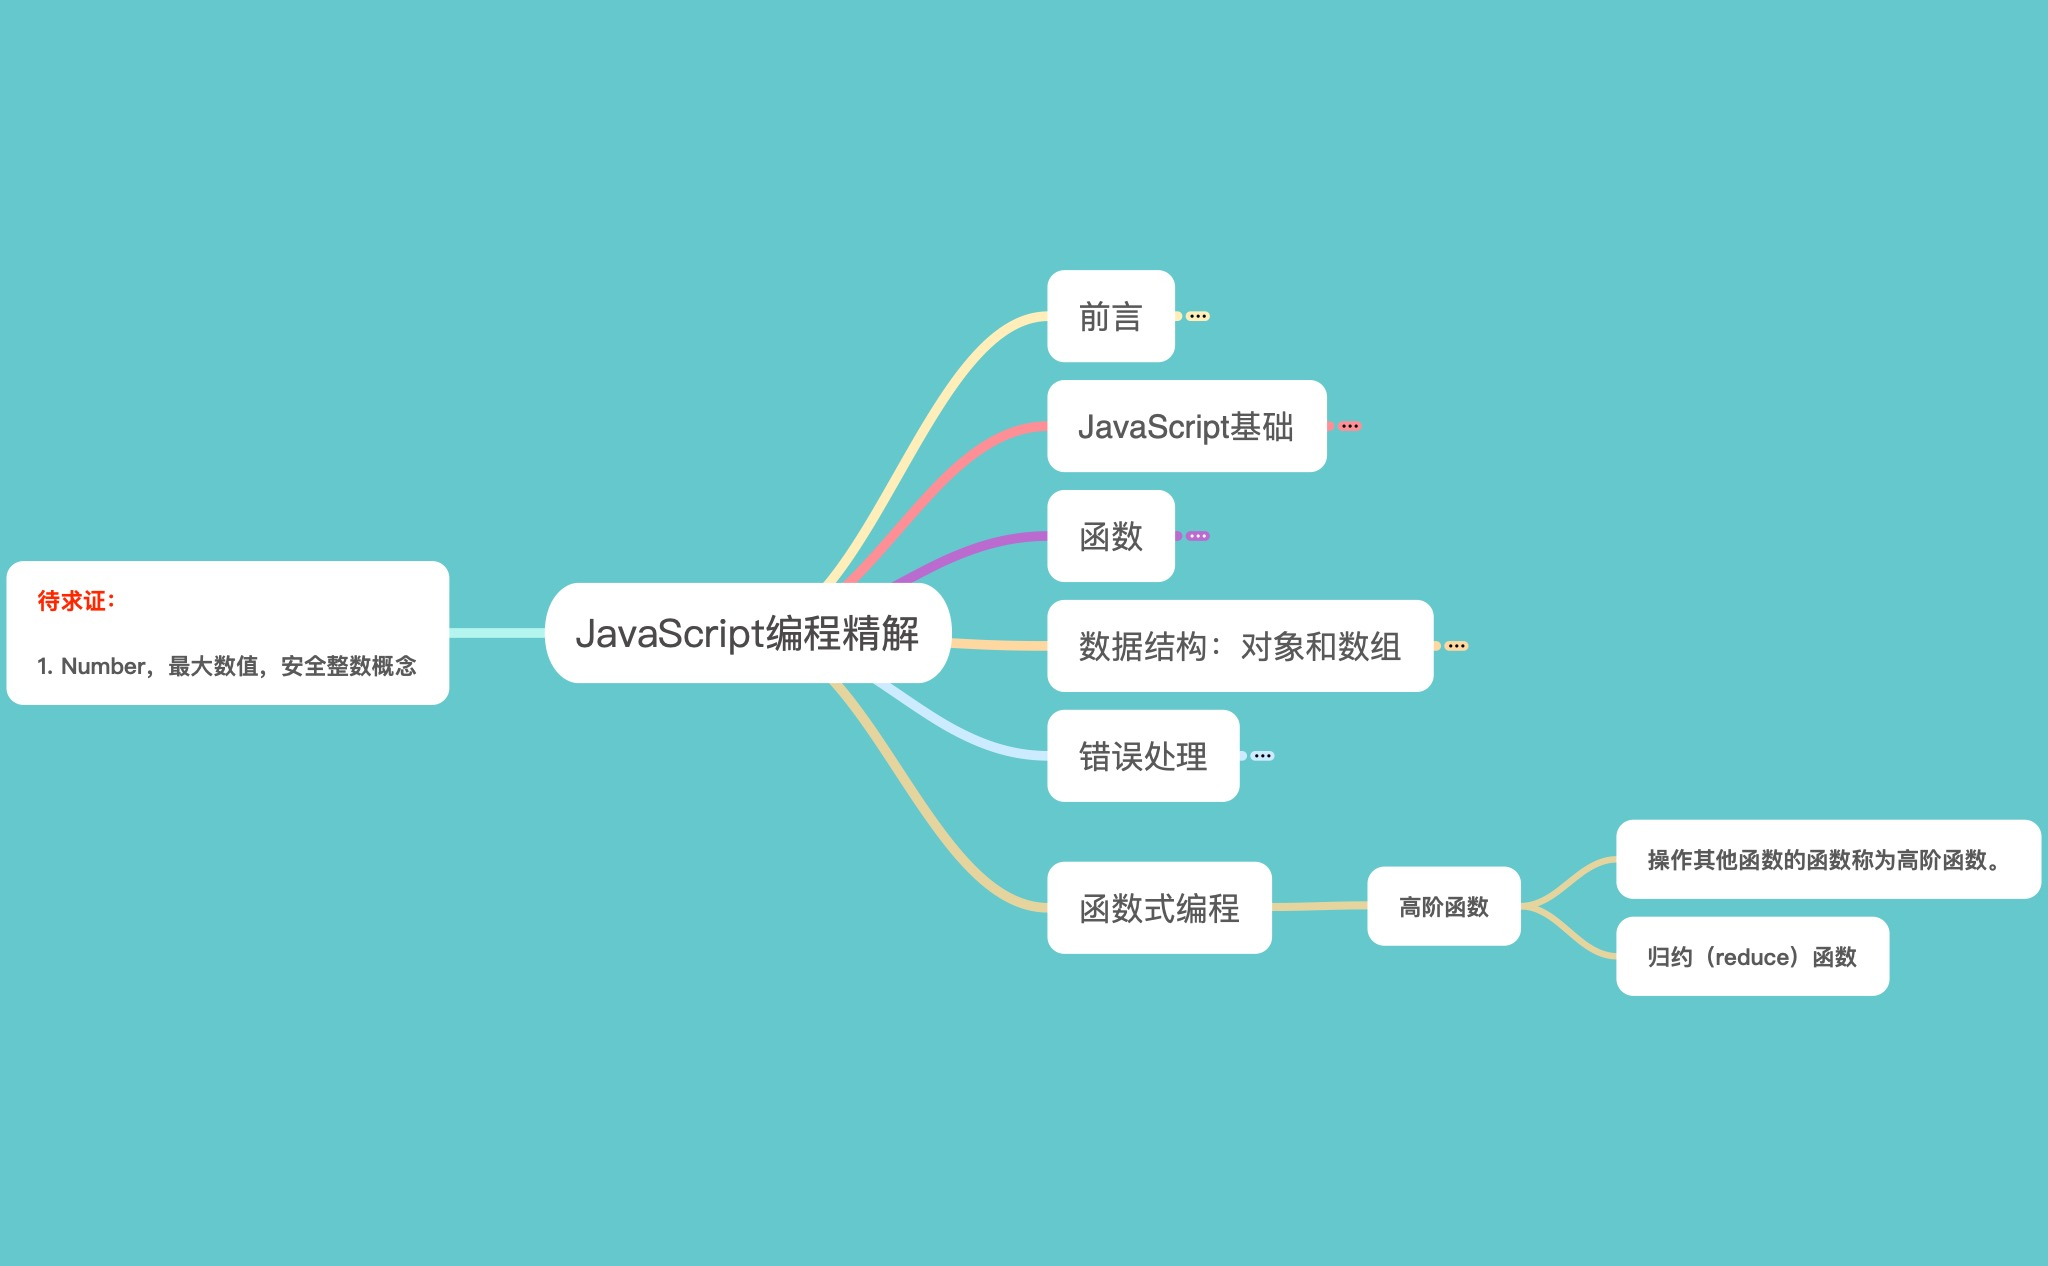
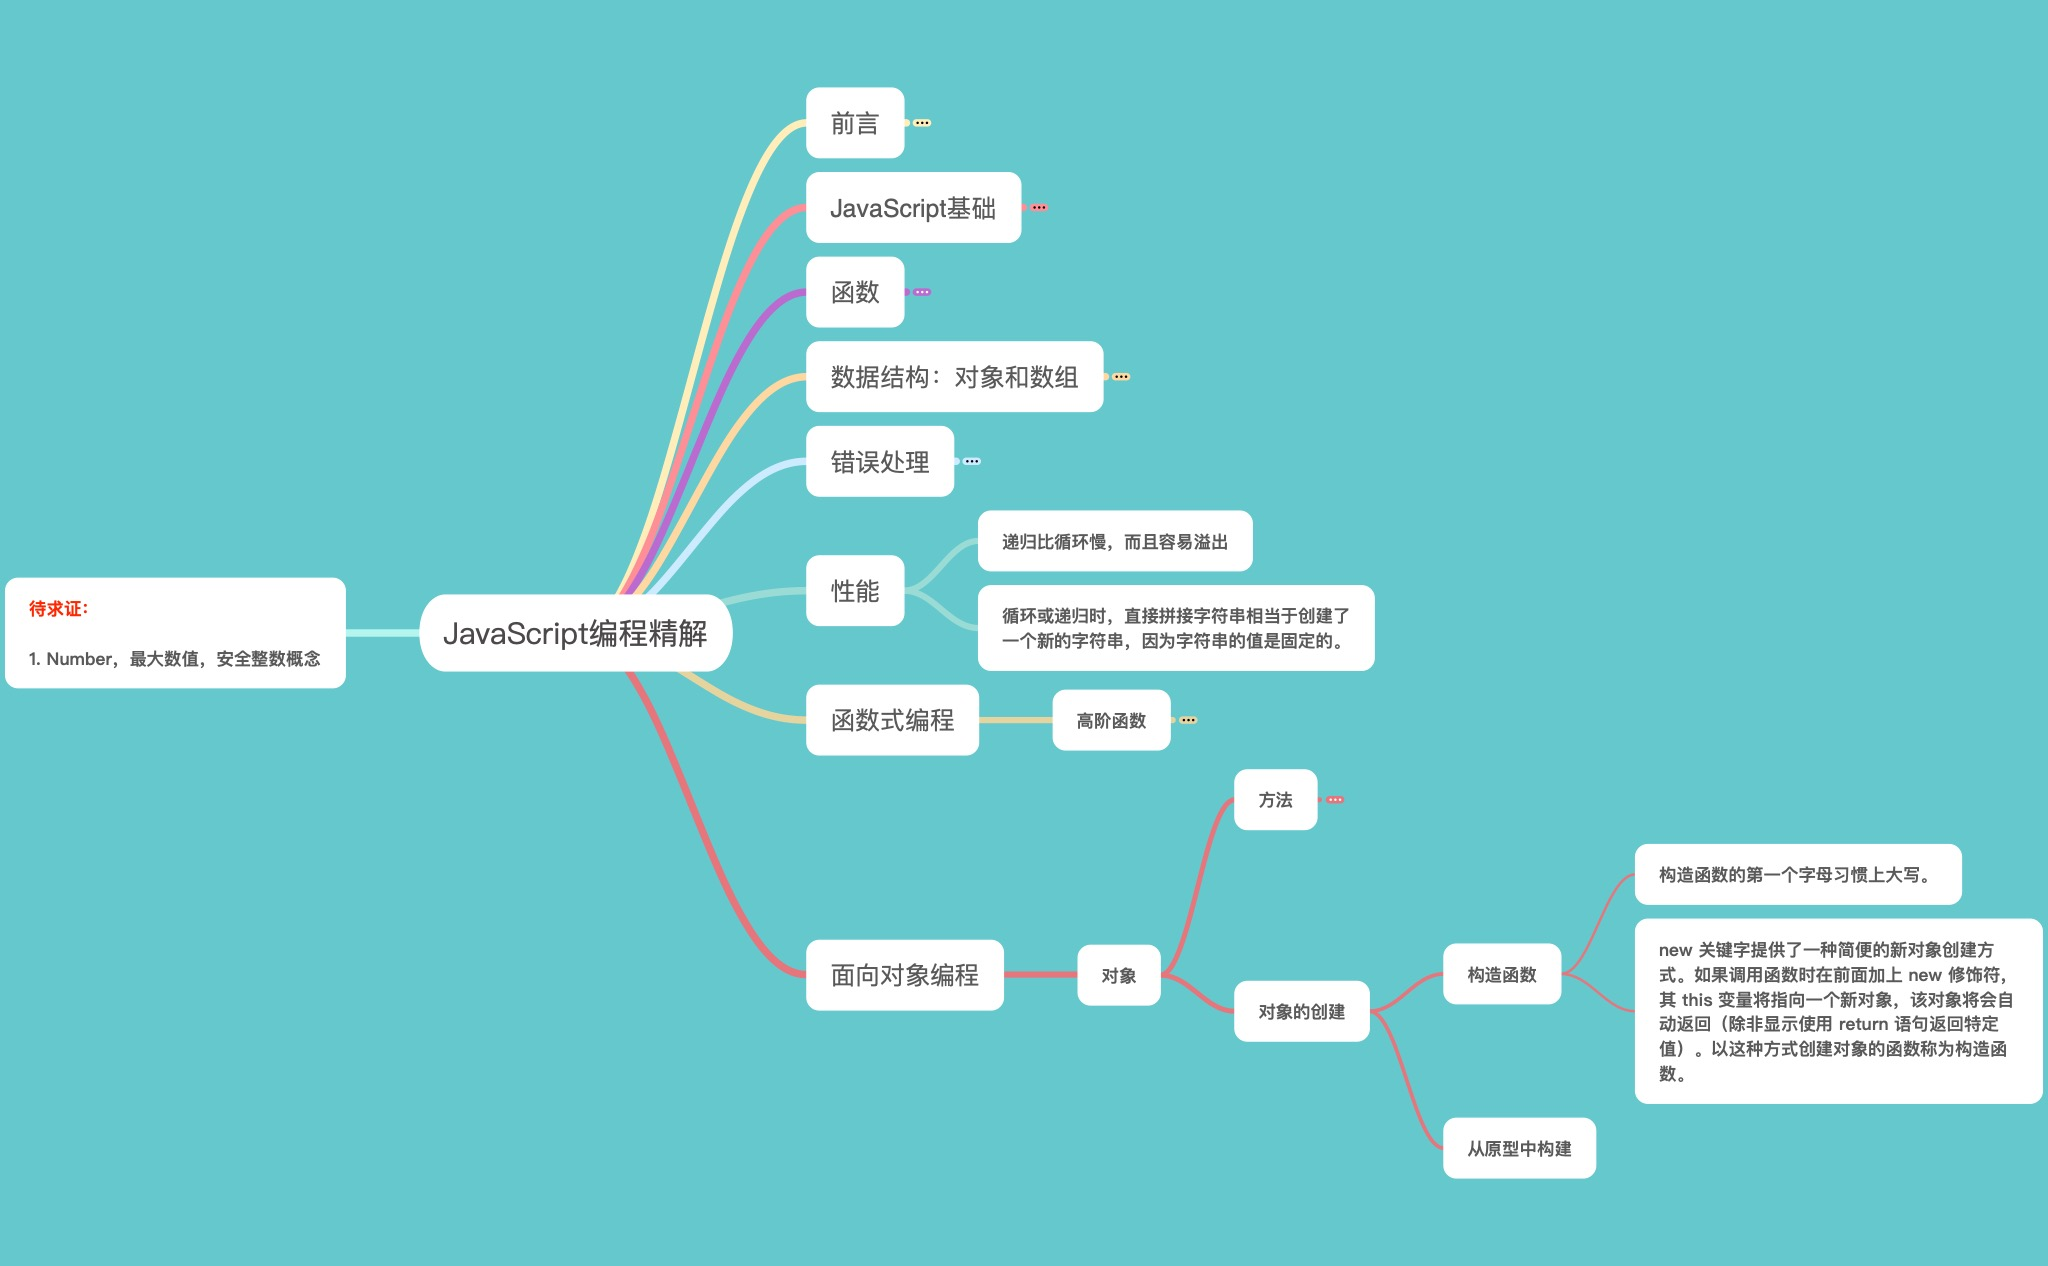
面向对象编程

Changed region(s): [[0.0, 0.0616, 1.0, 0.955], [0.3438, 0.6777, 0.375, 0.7393]]

diff --git a/ES6/sample code/eg.js b/ES6/sample code/eg.js
@@ -1,0 +1,156 @@
+/* function between(string, start, end) {
+    var startAt = string.indexOf(start);
+    if (startAt == -1) {
+        return undefined;
+    }
+    startAt += start.length;
+    var endAt = string.indexOf(end, startAt);
+    if (endAt == -1) {
+        return undefined;
+    }
+    return string.slice(startAt, endAt);
+} */
+
+// console.log(between('Louis "Pops" Armstrong', '"', '"'));
+/* var input = prompt('Tell me something', '');
+var parenthesized = between(input, '(', ')');
+if (parenthesized != undefined) {
+    console.log('You parenthesized "',parenthesized,'".');
+} */
+/* function lastElement(array) {
+    if (array.length > 0) {
+        return array[array.length - 1];
+    } else {
+        throw 'Cannot take the last element of an empty array.';
+    }
+}
+
+function lastElementPlusTen(array) {
+    return lastElement(array) + 10;
+}
+
+try {
+    console.log(lastElementPlusTen([]));
+} catch (error) {
+    console.log('Something went wrong: ', error);
+} */
+
+/* var currentThing = null;
+function processThing(thing) {
+    var prevThing = currentThing;
+    currentThing = thing;
+    try {
+        // do something
+    }
+    finally {
+        currentThing = prevThing;
+    }
+} */
+/* try {
+    console.log(sfdsf);
+}
+catch(error) {
+    console.log('Caught: ' + error.message);
+} */
+/* var InvalidInputError = new Error('Invalid numeric input');
+function inputNumber() {
+    var input = Number(prompt('Give me a number', ''));
+    if (isNaN(input)) {
+        throw InvalidInputError;
+    }
+    return input;
+}
+console.log(inputNumber()); */
+
+/* function printArray(array) {
+    for (var i = 0; i < array.length; i++) {
+        console.log(array[i]);
+    }
+}
+printArray([2,3,5,7,12]); */
+function forEach(array, action) {
+    for (var i = 0; i < array.length; i++) {
+        action(array[i]);
+    }
+}
+/*
+forEach(['Wampeter', 'Foma', 'Granfalloon'], console.log); */
+
+/* function sum(numbers) {
+    var total = 0;
+    forEach(numbers, function (number) {
+        total += number;
+    });
+    return total;
+}
+
+console.log(sum([2, 3, 5, 7, 12])); */
+
+/* function negate(func) {
+    return function(x) {
+        return !func(x);
+    }
+}
+var isNotNaN = negate(isNaN);
+console.log(isNotNaN(NaN)); */
+
+/* function negate(func) {
+    return function() {
+        return !func.apply(null, arguments);
+    }
+} */
+function reduce(combine, base, array) {
+    forEach(array, function (element) {
+        base = combine(base, element);
+    });
+    return base;
+}
+
+function add(a, b) {
+    return a + b;
+}
+
+function sum(numbers) {
+    return reduce(add, 0, numbers);
+}
+
+// console.log(sum([2, 3, 5, 7, 12]));
+function countZeroes(array) {
+    function counter(total, element) {
+        return total + (element === 0 ? 1 : 0);
+    }
+    return reduce(counter, 0, array);
+}
+
+function map(func, array) {
+    var result = [];
+    forEach(array, function (element) {
+        result.push(func(element));
+    });
+    return result;
+}
+// console.log(map(Math.round, [0.01, 2, 9.89, Math.PI]));
+// HTML HyperText Markup language
+/* function partial(func) {
+    var knownArgs = arguments;
+    return function() {
+        var realArgs = [];
+        for (var i = 1; i < knownArgs.length; i++) {
+            realArgs.push(knownArgs[i]);
+        }
+        for (var i = 0; i < arguments.length; i++) {
+            realArgs.push(arguments[i]);
+        }
+        return func.apply(null, realArgs);
+    };
+} */
+/* function compose(f1, f2) {
+    return function() {
+        return f1(f2.apply(null, arguments));
+    }
+}
+var isNotNaN = compose(function (x) {
+    return !x;
+}, isNaN);
+console.log(isNotNaN(5 + 'a')); */
+

diff --git a/ES6/sample code/export.js b/ES6/sample code/export.js
@@ -1,136 +1,3 @@
 import './cats.js';
 import './sum.js';
-
-/* function between(string, start, end) {
-    var startAt = string.indexOf(start);
-    if (startAt == -1) {
-        return undefined;
-    }
-    startAt += start.length;
-    var endAt = string.indexOf(end, startAt);
-    if (endAt == -1) {
-        return undefined;
-    }
-    return string.slice(startAt, endAt);
-} */
-
-// console.log(between('Louis "Pops" Armstrong', '"', '"'));
-/* var input = prompt('Tell me something', '');
-var parenthesized = between(input, '(', ')');
-if (parenthesized != undefined) {
-    console.log('You parenthesized "',parenthesized,'".');
-} */
-/* function lastElement(array) {
-    if (array.length > 0) {
-        return array[array.length - 1];
-    } else {
-        throw 'Cannot take the last element of an empty array.';
-    }
-}
-
-function lastElementPlusTen(array) {
-    return lastElement(array) + 10;
-}
-
-try {
-    console.log(lastElementPlusTen([]));
-} catch (error) {
-    console.log('Something went wrong: ', error);
-} */
-
-/* var currentThing = null;
-function processThing(thing) {
-    var prevThing = currentThing;
-    currentThing = thing;
-    try {
-        // do something
-    }
-    finally {
-        currentThing = prevThing;
-    }
-} */
-/* try {
-    console.log(sfdsf);
-}
-catch(error) {
-    console.log('Caught: ' + error.message);
-} */
-/* var InvalidInputError = new Error('Invalid numeric input');
-function inputNumber() {
-    var input = Number(prompt('Give me a number', ''));
-    if (isNaN(input)) {
-        throw InvalidInputError;
-    }
-    return input;
-}
-console.log(inputNumber()); */
-
-/* function printArray(array) {
-    for (var i = 0; i < array.length; i++) {
-        console.log(array[i]);
-    }
-}
-printArray([2,3,5,7,12]); */
-function forEach(array, action) {
-    for (var i = 0; i < array.length; i++) {
-        action(array[i]);
-    }
-}
-/*
-forEach(['Wampeter', 'Foma', 'Granfalloon'], console.log); */
-
-/* function sum(numbers) {
-    var total = 0;
-    forEach(numbers, function (number) {
-        total += number;
-    });
-    return total;
-}
-
-console.log(sum([2, 3, 5, 7, 12])); */
-
-/* function negate(func) {
-    return function(x) {
-        return !func(x);
-    }
-}
-var isNotNaN = negate(isNaN);
-console.log(isNotNaN(NaN)); */
-
-/* function negate(func) {
-    return function() {
-        return !func.apply(null, arguments);
-    }
-} */
-function reduce(combine, base, array) {
-    forEach(array, function (element) {
-        base = combine(base, element);
-    });
-    return base;
-}
-
-function add(a, b) {
-    return a + b;
-}
-
-function sum(numbers) {
-    return reduce(add, 0, numbers);
-}
-
-// console.log(sum([2, 3, 5, 7, 12]));
-function countZeroes(array) {
-    function counter(total, element) {
-        return total + (element === 0 ? 1 : 0);
-    }
-    return reduce(counter, 0, array);
-}
-
-function map(func, array) {
-    var result = [];
-    forEach(array, function (element) {
-        result.push(func(element));
-    });
-    return result;
-}
-// console.log(map(Math.round, [0.01, 2, 9.89, Math.PI]));
-// HTML HyperText Markup language
+import './OOP(object-oriented-programming).js';

diff --git a/ES6/sample code/OOP(object-oriented-programming).js b/ES6/sample code/OOP(object-oriented-programming).js
@@ -1,0 +1,36 @@
+/* var rabbit = {};
+rabbit.speak = function(line) {
+    console.log('The rabbit says "', line, '"');
+};
+rabbit.speak("I'm alive."); */
+
+/* function speak(line) {
+    console.log('The ', this.adjective, ' rabbit says "', line, '"');
+};
+var whileRabbit = {adjective: 'white', speak: speak};
+var fatRabbit = {adjective: 'fat', speak: speak};
+whileRabbit.speak("Oh my ears and whiskers, how late it's getting!");
+fatRabbit.speak('I could sure use a carrot right now.');
+
+speak.apply(fatRabbit, ['Yum.']);
+speak.call(fatRabbit, 'Burp.');
+
+function run(from, to) {
+    console.log('The ', this.adjective, ' rabbit runs from ', from, ' to ', to, '.');
+}
+run.apply(whileRabbit, ['A', 'B']);
+run.call(fatRabbit, 'the cupboard', 'the fridge'); */
+
+//构造函数创建对象
+/* function Rabbit(adjective) {
+    this.adjective = adjective;
+    this.speak = function(line) {
+        console.log('The ', this.adjective, ' rabbit says "', line, '"');
+    };
+}
+var killerRabbit = new Rabbit('killer');
+killerRabbit.speak('GRAAAAAAAH!'); */
+
+
+
+

diff --git a/ES6/sample code/test.html b/ES6/sample code/test.html
@@ -9,7 +9,9 @@
 <body>
     <h1>A quote</h1>
     <blockquote>
-        <p>The connection between the language in which we think/program and the problems and solutions we can imagine is very close.</p>
+        <p>The connection between the language in which we think/program and the problems and solutions we can imagine is very close. For this reason restricting language features with the intent of eliminating programmer errors is at best dangerous.</p>
+        <p>-- Bjarne Stroustrup</p>
     </blockquote>
+    <p>Also, here is a picture of an ostrich:</p>
 </body>
 </html>
